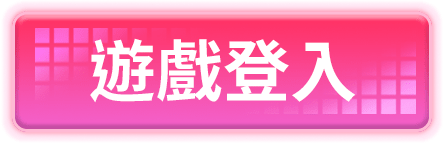
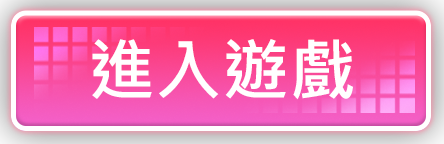
update

diff --git a/views/front.htm b/views/front.htm
@@ -6,8 +6,8 @@
                                                        class="login-homepage-mid-logo"></div>
             <div class="login-homepage-bottom-sec">
                 <div class="cstm-container">
-                    <div class="cstm-column"><a><img alt="login home" src="/assets/images/login-homepage-free-trail.png"></a></div>
-                    <div class="cstm-column"><a href="#" ng-click="openModal('login')"><img
+                    <!--<div class="cstm-column"><a><img alt="login home" src="/assets/images/login-homepage-free-trail.png"></a></div>-->
+                    <div class="text-center"><a href="#" ng-click="openModal('login')"><img
                             src="/assets/images/Login-homepage-game-login-btn.png"></a></div>
                 </div>
             </div>

diff --git a/angular/controllers/dashboard.controller.js b/angular/controllers/dashboard.controller.js
@@ -14,6 +14,8 @@ gamingApp.controller("dashboardController", function ($scope, $route, $routePara
         margin: 25,
         nav: true,
         addClassActive: true,
+        mouseDrag: false,
+        pullDrag: false,
         responsiveClass: true,
         responsive: {
             0: {
